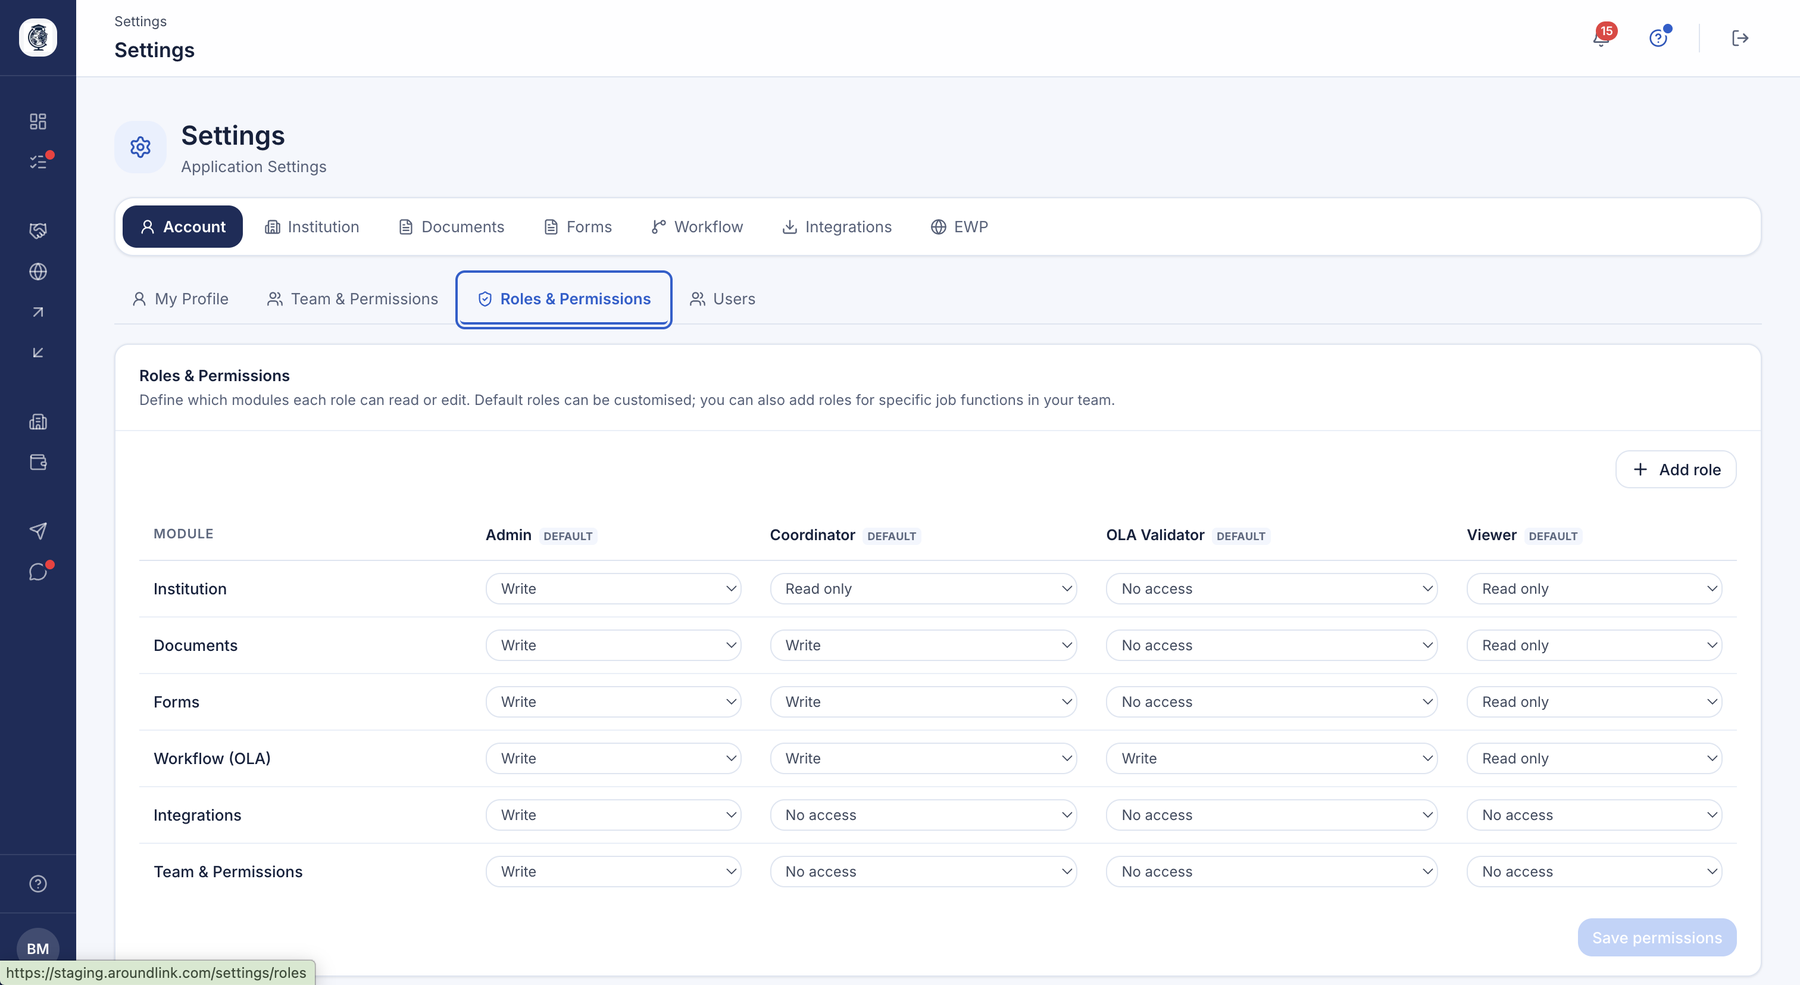
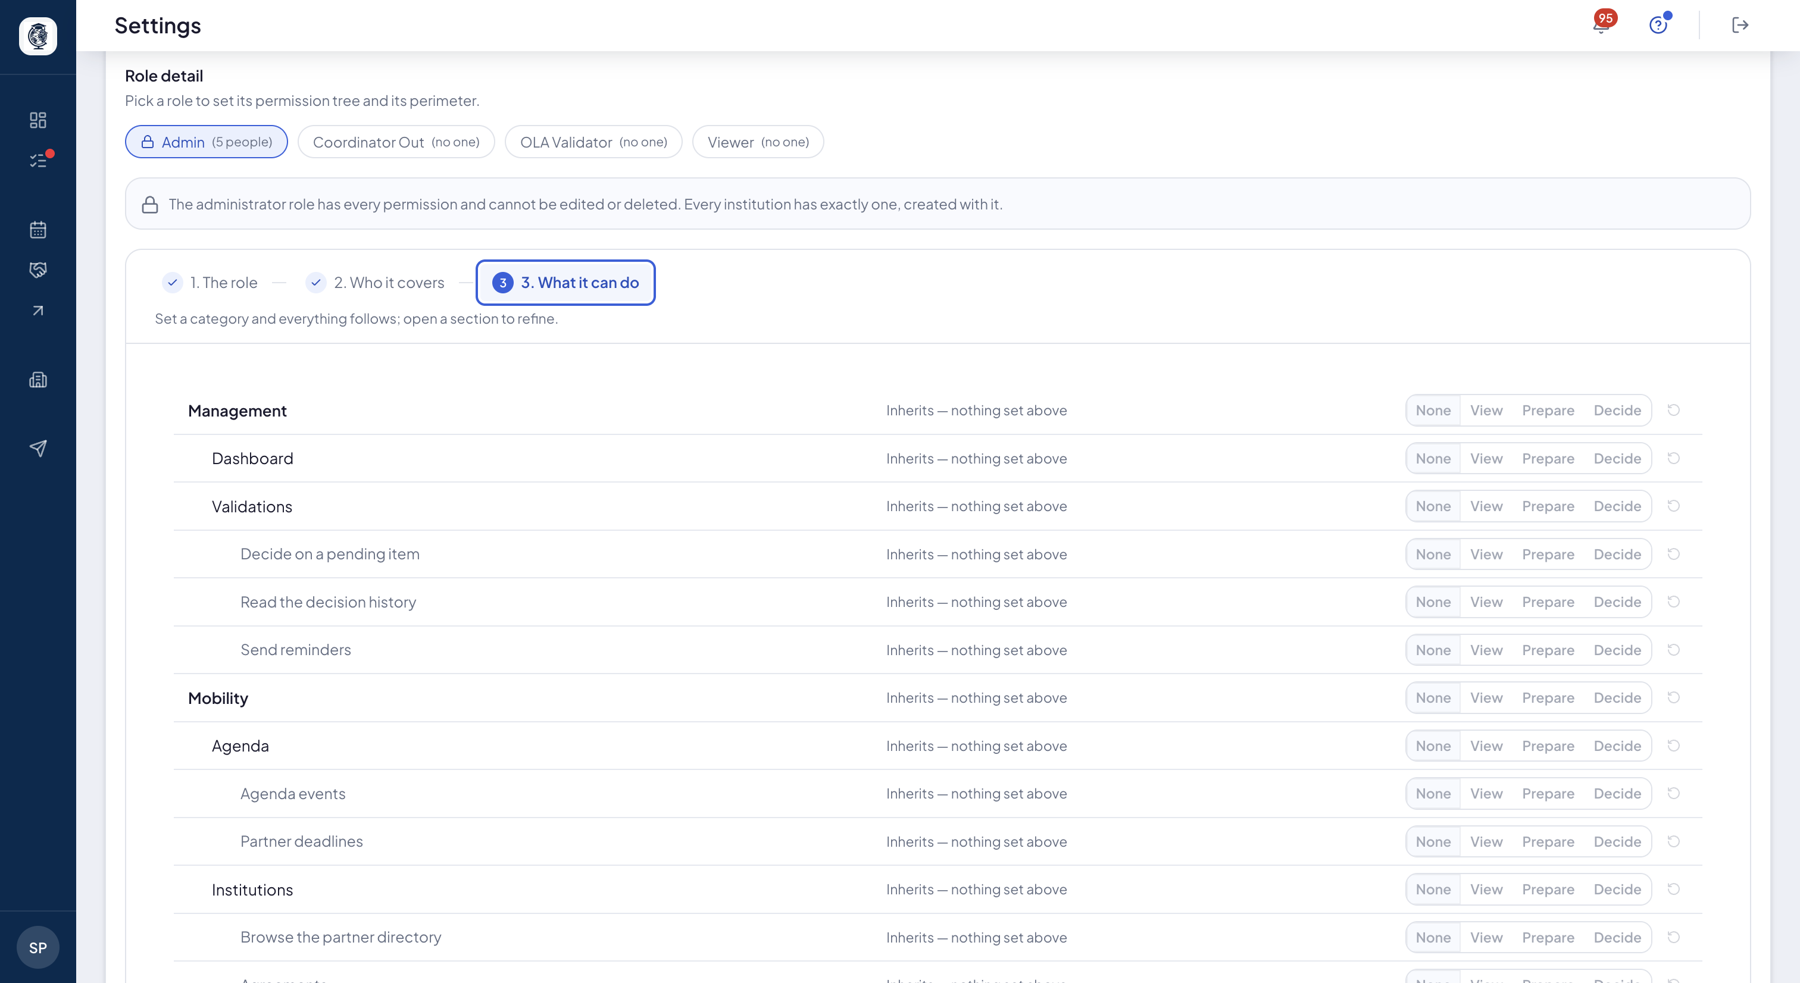
docs: illustrer les rôles, mes permissions, la vue étudiante et les filtres étudiants

diff --git a/docs/etablissement/parametres.fr.md b/docs/etablissement/parametres.fr.md
@@ -176,6 +176,10 @@ apparaît dans « Find your exchange », où vos étudiants la choisissent comme
 pays ou une langue. « Match my profile » présélectionne alors les valeurs que
 l'étudiant porte déjà.
 
+![Filtres étudiants](../assets/screenshots/parametres-filtres-etudiants.png)
+
+*Vos filtres, leur couleur, et le nombre d'établissements et d'étudiants sur lesquels chacun est posé.*
+
 **Cas d'usage.**
 > Le coordinateur crée le filtre « Double diplôme », le pose sur les étudiants
 > concernés et le rend visible. Un étudiant qui le porte ouvre sa recherche de
@@ -249,6 +253,10 @@ profil. Vous pouvez le lui masquer : vous et votre équipe continuez de le voir,
 chaque partenaire et chaque période. Vous pouvez n'afficher que l'existence d'une place
 disponible, sans le nombre.
 
+![Réglages de la vue étudiante](../assets/screenshots/parametres-vue-etudiante.png)
+
+*Les deux interrupteurs, avec sous chacun la phrase qui dit ce que l'étudiant verra.*
+
 **Cas d'usage.**
 > L'établissement ne souhaite pas que le classement circule entre étudiants avant la
 > commission. L'admin le masque le temps de la campagne, et le rétablit ensuite — les
@@ -285,10 +293,26 @@ La frontière utile est celle-ci : **« Préparer » fait avancer un dossier che
 « Décider » le fait sortir**. Les quatre niveaux sont posés côte à côte sur chaque ligne,
 sans menu déroulant : voir la valeur voisine fait partie de l'information.
 
+![Le sélecteur de niveaux](../assets/screenshots/parametres-role-niveaux.png)
+
+*Une ligne de droits : les quatre niveaux alignés, celui qui s'applique en couleur, et la flèche qui rend la ligne à ce dont elle hérite.*
+
+![Le périmètre d'un rôle](../assets/screenshots/parametres-role-perimetre.png)
+
+*L'étape du périmètre : les domaines métier, la direction, les campus et les promotions. Ne rien cocher sur les campus ou les promotions revient à tous les couvrir.*
+
+![L'arbre des droits](../assets/screenshots/parametres-roles.png)
+
+*L'arbre complet : chaque section de l'application, et sous elle les actions qu'un rôle peut porter.*
+
 **Comparer deux rôles.** Un bouton affiche le même arbre avec une colonne par rôle. C'est
 ainsi qu'on répond à « qui peut valider une bourse, au juste ? » sans ouvrir les rôles un
 par un — et qu'on découvre à temps que personne ne le peut, parce que chacun croyait que
 c'était l'autre.
+
+![Comparaison de rôles](../assets/screenshots/parametres-roles-comparaison.png)
+
+*Le même arbre, une colonne par rôle : on lit d'un trait qui décide, qui prépare et qui ne voit rien.*
 
 **Un filet.** Vous ne pouvez pas retirer le dernier administrateur de votre établissement.
 
@@ -312,6 +336,10 @@ hors de votre périmètre.
 Il n'est protégé par aucune permission, et c'est volontaire : plus un rôle est restreint,
 plus la personne a besoin de comprendre pourquoi un écran lui est fermé. Sans lui, chaque
 restriction ressemble à une panne, et quelqu'un doit aller lire la configuration à sa place.
+
+![Mes permissions](../assets/screenshots/parametres-mes-permissions.png)
+
+*Vos droits énoncés en phrases — de qui vous voyez les dossiers, et ce que vous pouvez faire dans chaque section.*
 
 ## Fiche d'un contact
 

diff --git a/docs/etablissement/parametres.en.md b/docs/etablissement/parametres.en.md
@@ -166,6 +166,10 @@ filter shows**. Tick "Visible to students" and the value appears in "Find your
 exchange", where your students pick it like a country or a language. "Match my
 profile" then pre-selects the values a student already carries.
 
+![Student filters](../assets/screenshots/parametres-filtres-etudiants.png)
+
+*Your filters, their colour, and how many institutions and students each is applied to.*
+
 **Use case.**
 > The coordinator creates the "Double degree" filter, applies it to the students
 > concerned and makes it visible. A student carrying it opens their destination
@@ -234,6 +238,10 @@ profile. You can hide it from them: you and your team still see it, they do not.
 **Number of places.** By default your students see how many places you open on each partner
 and period. You can show only that a place is available, without the number.
 
+![Student view settings](../assets/screenshots/parametres-vue-etudiante.png)
+
+*The two switches, each with the sentence saying what the student will see.*
+
 **Use case.**
 > The institution would rather the ranking did not circulate among students before the
 > committee meets. The admin hides it for the duration of the campaign and restores it
@@ -269,9 +277,25 @@ The useful boundary is this one: **"Prepare" moves a file forward inside your wa
 "Decide" sends it out**. The four levels sit side by side on each line, with no dropdown:
 seeing the neighbouring value is part of the information.
 
+![The level picker](../assets/screenshots/parametres-role-niveaux.png)
+
+*One line of rights: the four levels aligned, the one in force in colour, and the arrow that hands the line back to what it inherits.*
+
+![A role's perimeter](../assets/screenshots/parametres-role-perimetre.png)
+
+*The perimeter step: business domains, direction, campuses and promotions. Ticking nothing on campuses or promotions covers them all.*
+
+![The rights tree](../assets/screenshots/parametres-roles.png)
+
+*The full tree: each section of the application, and under it the actions a role can carry.*
+
 **Comparing two roles.** A button shows the same tree with one column per role. That is how
 you answer "who can actually approve a grant?" without opening roles one by one — and how
 you find out in time that nobody can, because everyone assumed someone else did.
+
+![Comparing roles](../assets/screenshots/parametres-roles-comparaison.png)
+
+*The same tree, one column per role: you read at a glance who decides, who prepares and who sees nothing.*
 
 **A safety net.** You cannot remove your institution's last administrator.
 
@@ -295,6 +319,10 @@ It is behind no permission of its own, and that is deliberate: the more restrict
 the more the person needs to understand why a screen is closed to them. Without it, every
 restriction looks like a breakdown, and someone else has to go and read their configuration
 for them.
+
+![My permissions](../assets/screenshots/parametres-mes-permissions.png)
+
+*Your rights stated as sentences — whose files you see, and what you can do in each section.*
 
 ## A contact's record
 
